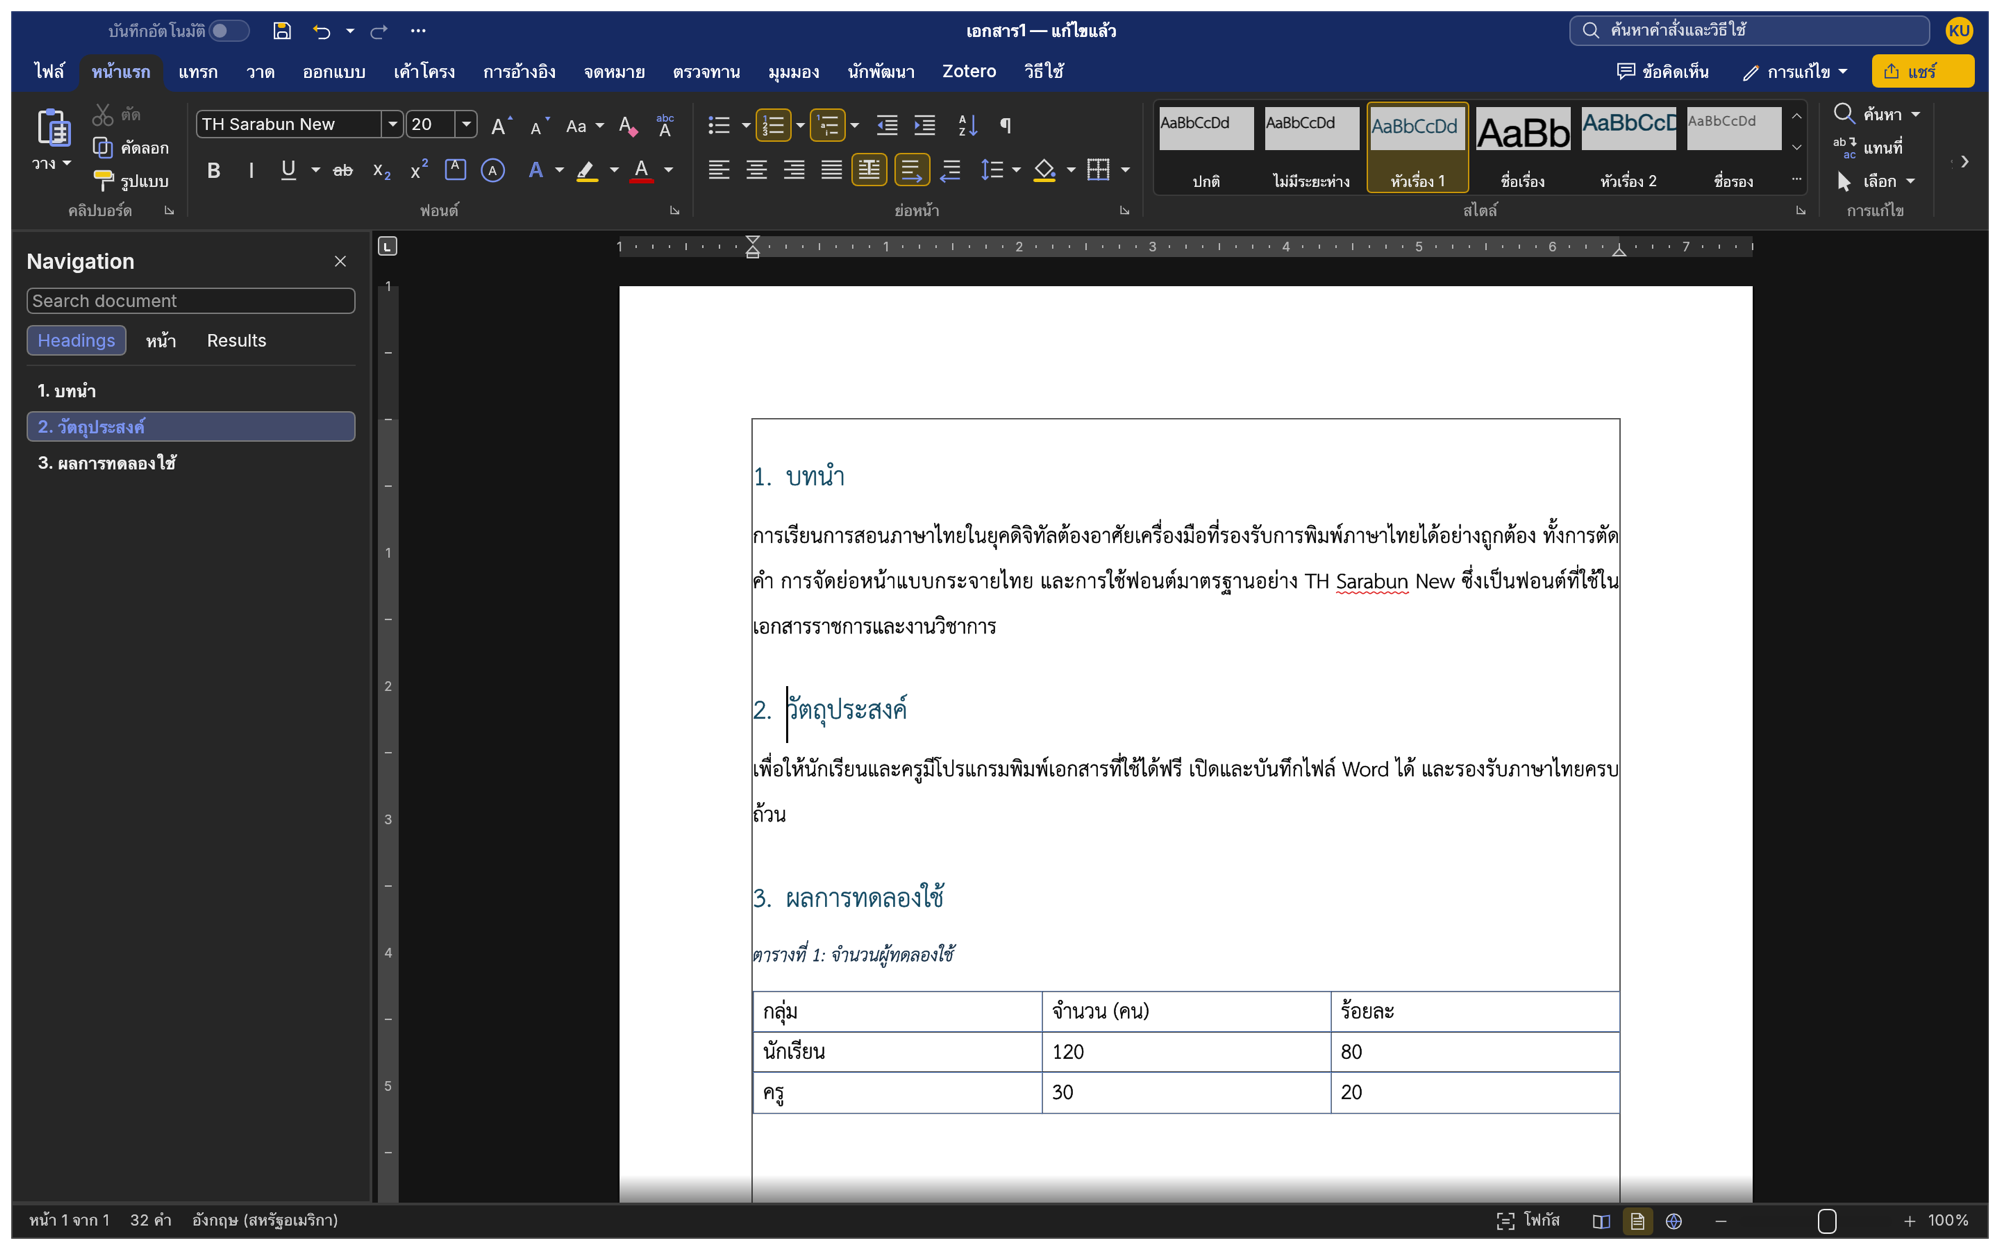
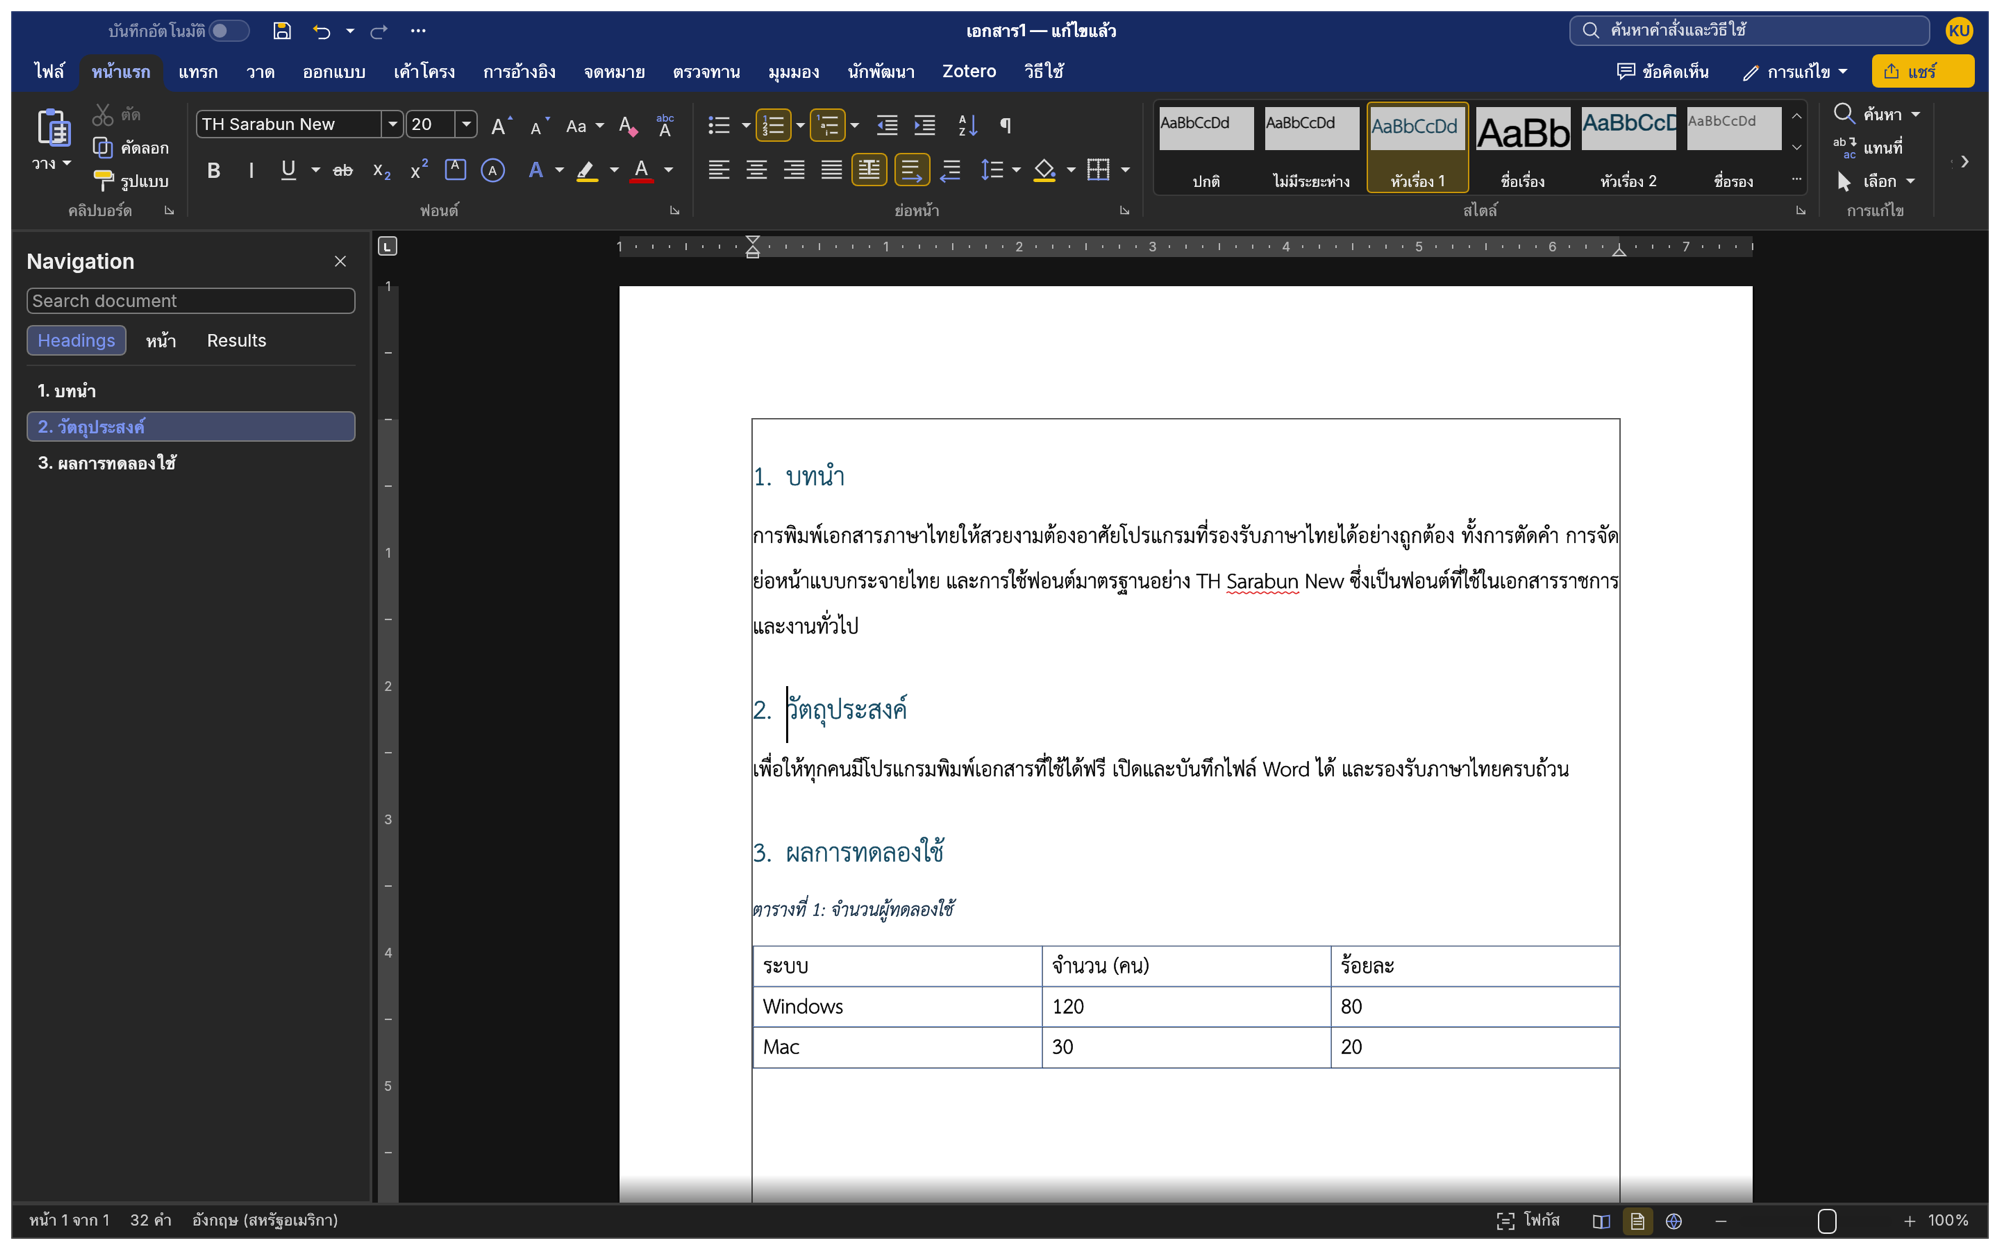
README: no schools focus
Drop the schools wording from the intro (English and Thai), and retake the
main and dark screenshots with a sample document about Thai documents in
general.

Changed region(s): [[0.372, 0.6552, 0.806, 0.9048], [0.372, 0.4056, 0.806, 0.5304], [0.372, 0.5928, 0.806, 0.624]]

diff --git a/README.md b/README.md
@@ -22,13 +22,12 @@
 
 KhianKrub is a fork of [WordCraft](https://github.com/storytold/wordcraft) by the ArtCraft team, adapted for Thai
 users by Chanon Sarasuk. It opens, edits and saves Word documents (`.docx`), with a ribbon laid out like Microsoft
-Word's, and adds what Thai writing needs. It is made with schools in mind: students and teachers who need a free
-program for reports, worksheets and theses in Thai. It is not affiliated with or endorsed by the ArtCraft team.
+Word's, and adds what Thai writing needs. It is not affiliated with or endorsed by the ArtCraft team.
 
 This is a one-person project and still young. If something doesn't work, please
 [open an issue](https://github.com/chanonss/khiankrub/issues); every report helps.
 
-โปรแกรมนี้ทำขึ้นเพื่อนักเรียน นักศึกษา และครู ที่ต้องการโปรแกรมพิมพ์เอกสารภาษาไทยที่ใช้ได้ฟรี ยังอยู่ระหว่างพัฒนา
+โปรแกรมพิมพ์เอกสารภาษาไทยที่ใช้ได้ฟรี ยังอยู่ระหว่างพัฒนา
 หากพบปัญหา แจ้งได้ที่หน้า [Issues](https://github.com/chanonss/khiankrub/issues) ขอบคุณทุกความคิดเห็นครับ
 
 ## What's new in 0.8.0

diff --git a/FORK-CHANGES.md b/FORK-CHANGES.md
@@ -18,7 +18,8 @@ progress notes are in `ROADMAP.md` and `docs/`; they are not edited here. Each e
 - The README opens with the new look (Thai menus, navy and gold) and a "What's new" section with pictures: Thai
   menus beside the English ones, the dark theme, Modify Style, Thai captions, the Borders menu and Define New
   Multilevel List, then a list of smaller changes. The older sections are kept under "Earlier changes", after
-  Download and install. A short note in English and Thai asks for bug reports.
+  Download and install. A short note in English and Thai asks for bug reports. The README doesn't single out schools
+  or education, and the sample document in its screenshots is about Thai documents in general.
 - New screenshots in `docs/images` (`khiankrub-hero.png` replaced), each with an ATTRIBUTION.md row.
 
 ### Curved corners where the active tab meets the ribbon
